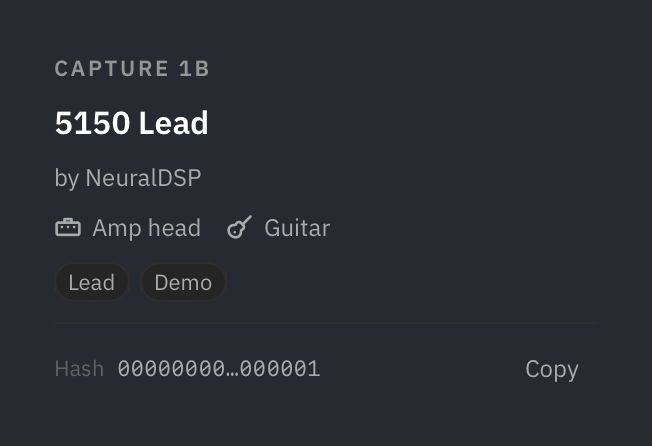
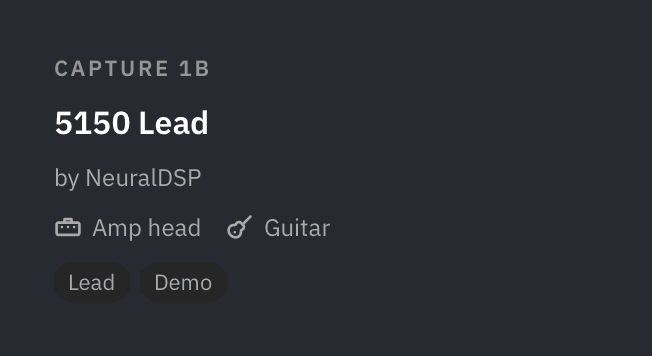
docs: Developer tools and Show Log File in the manual, templates and changelog
Manual: the Developer tools switch under Settings → Advanced, the Activity
section needs it, Troubleshooting asks for Help → Show Log File, Help menu and
status bar text updated. Bug report template asks for activity.log. CHANGELOG
Unreleased entry, DECISIONS #21, PLAN row 33 and session log, CONTRIBUTING and
CLAUDE.md notes. Screenshots retaken in normal mode (statusbar, hero,
settings-advanced, settings-device, shortcuts, capture-info); activity-log
with Developer tools on.

diff --git a/docs/MANUAL.md b/docs/MANUAL.md
@@ -117,16 +117,18 @@ pedal. The **Tempo** control at the top right belongs to the preset (see [Tempo]
 
 ### Status bar
 
-<img src="images/statusbar.png" alt="The status bar: link LED and state, firmware, last action, whether the preset matches the pedal, and Settings, Shortcuts, Record, Activity and Support" width="1000">
+<img src="images/statusbar.png" alt="The status bar: link LED and state, firmware, whether the preset matches the pedal, and Settings, Shortcuts and Support" width="1000">
 
-The link LED and state (green when connected), the pedal's firmware, the last thing sent, and whether the preset
-matches what's saved on the pedal. On the right: **Settings**, **Shortcuts**, **Record** (session recording),
-**Activity** (the protocol log, ⌘L) and **♥ Support**, which opens the project's Buy Me a Coffee page in your browser.
+The link LED and state (green when connected), the pedal's firmware, and whether the preset matches what's saved on
+the pedal. On the right: **Settings**, **Shortcuts** and **♥ Support**, which opens the project's Buy Me a Coffee page
+in your browser. With [Developer tools](#advanced) on, the bar also shows the last message sent ("Sent: …"),
+**Record** (session recording) and **Activity** (the protocol log, ⌘L).
 
 ### Help menu
 
-**Help** has **Nano Cortex Editor Manual** (this manual, on GitHub), **GitHub Repository**, **Report an Issue** and
-**Support the Project…**; they open in your browser. **Nano Cortex Editor → About Nano Cortex Editor** shows the
+**Help** has **Nano Cortex Editor Manual** (this manual, on GitHub), **GitHub Repository**, **Report an Issue**,
+**Show Log File** and **Support the Project…**. The links open in your browser; **Show Log File** shows the app's
+log file (`activity.log`) in Finder, to attach to a bug report. **Nano Cortex Editor → About Nano Cortex Editor** shows the
 version and the same links.
 
 ## 4. Presets
@@ -195,9 +197,10 @@ Each capture shows small icons for its device type (amp head, combo, pedal) and 
 author. Pick one, then choose the slot it should go into. **Whatever is in that slot is replaced**, and every preset
 that uses the slot plays the new capture.
 
-**Info…** (right-click the Capture card or a capture slot) shows the capture's details:
+**Info…** (right-click the Capture card or a capture slot) shows the capture's details (with
+[Developer tools](#advanced) on, also its hash, with Copy):
 
-<img src="images/capture-info.png" alt="Capture 1B details: 5150 Lead by NeuralDSP, amp head, guitar, tags Lead and Demo, and its hash with a Copy button" width="326">
+<img src="images/capture-info.png" alt="Capture 1B details: 5150 Lead by NeuralDSP, amp head, guitar, tags Lead and Demo" width="326">
 
 ### Cab / IR
 
@@ -344,20 +347,28 @@ disconnects and makes the next Connect scan for a pedal again.
 
 ### Device
 
-<img src="images/settings-device.png" alt="Settings, Device: the pedal's name, firmware, serial and hash, LED brightness 60 % and USB playback volume −6.0 dB" width="560">
+<img src="images/settings-device.png" alt="Settings, Device: the pedal's name, firmware and serial, LED brightness 60 % and USB playback volume −6.0 dB" width="560">
 
-Global settings of the pedal, read when you open the page: **About** (name, firmware build, serial and a hash, with
-Copy), **LED brightness** (in %) and **USB playback volume** (−20 to 0 dB, typeable) for audio from the computer over
-USB. They apply on the pedal right away, not per preset. **Raw settings** shows the other values the pedal reports,
-read-only; **Read again** re-reads them.
+Global settings of the pedal, read when you open the page: **About** (name, firmware build, serial), **LED
+brightness** (in %) and **USB playback volume** (−20 to 0 dB, typeable) for audio from the computer over USB. They
+apply on the pedal right away, not per preset. **Read again** re-reads them. With [Developer tools](#advanced) on,
+About also shows the pedal's hash, and **Raw settings** shows the other values the pedal reports, read-only.
 
 ### Advanced
 
-<img src="images/settings-advanced.png" alt="Settings, Advanced: show the Activity drawer at launch, and the Activity log file with Reveal in Finder" width="560">
+<img src="images/settings-advanced.png" alt="Settings, Advanced: the Developer tools switch, off" width="560">
 
-**Show the Activity drawer at launch**, and the **Activity log file**
-(`~/Library/Logs/Nano Cortex Editor/activity.log`) with **Reveal in Finder**. (The *Dev remote* row only appears in
-debug builds made from source.)
+**Developer tools** (off by default) shows the Activity log, session recording and protocol details, for
+troubleshooting and development: **Record** and **Activity** in the status bar, **⌘L** and **View → Activity Log**,
+the "Sent: …" text in the status bar, the pedal's hash and **Raw settings** on the Device page, and the hash in a
+capture's **Info…**. It takes effect right away; turning it off closes the Activity drawer and ends a recording in
+progress (the recording is saved to the default folder). With it on, this page also has **Show the Activity drawer
+at launch** and the **Activity log file** with **Reveal in Finder**. (The *Dev remote* row only appears in debug
+builds made from source.)
+
+The log file (`~/Library/Logs/Nano Cortex Editor/activity.log`) is written whether Developer tools are on or not, so
+a bug report can include it (**Help → Show Log File**). It is capped: past about 2 MB it moves to `activity.1.log`
+and a new one starts, so at most two files are kept.
 
 ### About
 
@@ -368,10 +379,14 @@ edition** (macOS and Windows) and **Buy me a coffee**. They open in your browser
 
 ## 13. Session recording and the Activity log
 
+Both need **Developer tools** (Settings → [Advanced](#advanced)).
+
 **Activity** in the status bar (or **⌘L**, or **View → Activity Log**) opens the protocol log under the editor: every
 message sent (TX) and received (RX), with times. The same lines go to the log file above, so you can `tail -f` it.
 
 <img src="images/activity-log.png" alt="The Activity drawer listing sent messages such as Pre FX 1 param refresh, Library content request and Tuner on, with timestamps" width="1000">
+
+*The Activity drawer, with Developer tools on.*
 
 **Record** in the status bar captures every Bluetooth packet in both directions, with timestamps and the log lines.
 The button reads *Recording N* in red while it runs; click it again to save the JSON file (by default in
@@ -393,7 +408,8 @@ Press **?** (when no text field has focus) or **View → Keyboard Shortcuts** fo
 | ⇧⌘R | Re-read everything from the pedal |
 | ⌘K | Connect or disconnect |
 | ⌘1 / ⌘2 | Editor / Cortex Cloud |
-| ⌘L | Show Bluetooth activity |
+| ⌘L | Show Bluetooth activity (Developer tools) |
+| Record | In the status bar: record every packet, then save it as JSON (Developer tools) |
 | ⌘T | Tuner (Esc closes it) |
 | ⌘M | Metronome (Space starts and stops it) |
 | ? | This list (Esc closes any sheet or overlay) |
@@ -436,8 +452,9 @@ the pedal first.
 **The metronome is silent or on the wrong device.** Check the volume in the overlay and **Output** (Settings →
 Metronome).
 
-**Something else looks wrong.** Open **Activity** (⌘L) to see what was sent and received. For a bug report, a
-**Record**ing of the problem helps (check it for anything you don't want to share).
+**Something else looks wrong.** Choose **Help → Show Log File** and attach `activity.log` to your bug report (it
+lists what the app sent and received; check it for anything you don't want to share). To watch the log live, turn on
+**Developer tools** (Settings → Advanced) and open **Activity** (⌘L); a **Record**ing of the problem helps too.
 
 ## 17. FAQ
 

diff --git a/PLAN.md b/PLAN.md
@@ -65,6 +65,7 @@ IBM Plex Sans, purple #6954FF for actions, Quad Cortex category colours for bloc
 | 30 | [x] Footswitch assignment (Anup, 2026-10-09; supersedes row 17): Footswitches strip under the preset list (IA IB / IIA IIB, preset number and name, current one highlighted; click loads, right-click "Assign current preset" / "Assign…" popover), "Assign to footswitch IA…IIB" on preset rows; with unsaved edits an assignment asks "Save changes to X?" first (the pedal drops them, trace ~649 s); `Writes.assignFootswitch` (type 29, field 4 = −1), preset change field 9 now names the slot holding the preset (was always 4); device-side presses update the slots; fake pedal keeps four slots; `/footswitch?slot=&i=`, `/state` → `footswitch`. PROTOCOL-NOTES §10. Electron: in parallel | Opus | Fixture bytes (three assignments and field 9, `FootswitchTests`); demo screenshot of the strip after `/footswitch?slot=iib&i=5`; ⚠ one assignment on the pedal, then press the switch |
 | 31 | [x] Expression pedal assignments (types 60–63, PROTOCOL-NOTES §12): NanoCore `ExpressionAssignments` (11 sweep + 8 on/off targets, encode/parse), `Writes.expressionRead/Save`, `Session.readExpression/saveExpression`, fake pedal keeps a set per preset; store reads on connect and every preset load, one 62 per edit (latest wins while dragging), edited + toast on clear; EXP pill before IN opens the panel in the inspector (target menu, heel/toe knobs in the parameter's units, switch mode/delay/latch/invert, Remove, Add, Clear all); dev remote `/expression`. Electron in parallel | Fable | Five trace bodies byte for byte + round trip (38 core tests); demo screenshots of filled and empty panel; ⚠ on the pedal: assign, Save, power-cycle, re-read |
 | 32 | [x] Share-ready 1.0.0 (2026-10-09): new repo `AJs-Creations/nano-cortex-editor-mac` without recordings (tests inline scrubbed frames, DECISIONS #19), MIT LICENSE + THIRD_PARTY_NOTICES, version 1.0.0, user README, `docs/MANUAL.md` with demo screenshots, CHANGELOG, CONTRIBUTING, issue/PR templates, release notes from CHANGELOG | Opus | Core + app unit tests green, Debug build, CI on the PR; ⚠ Anup tags v1.0.0 |
+| 33 | [x] Developer tools switch (Anup, 2026-10-10): Settings → Advanced "Developer tools", off by default (`ui.devTools`); hides Record, Activity, ⌘L / View → Activity Log, the "Sent: …" status text, the device hash and Raw settings, the capture Info hash, and the ⌘L/Record shortcut rows; turning it off closes the drawer and saves a running recording. Log file always written, rotated at ~2 MB to `activity.1.log` (`RotatingLogFile`, one open handle); Help → Show Log File. DECISIONS #21. Electron in parallel | Opus | `LogFileTests` (rotation, relaunch with a big file, recreate, default off); UI smoke: no Record/Activity by default, both with `-ui.devTools YES`; dev remote `/settings?devtools=` toggles live (menus, rows, drawer, recording); docs screenshots retaken |
 | 11 | [~] Design polish pass to Electron parity (Anup, 2026-10-08: "looks ok but nowhere near as good as the Electron version"): compare screen by screen against the Electron app, close the gaps in spacing, type, knob rendering, node cards, sidebar, drawer, sheets and animations. 2026-10-08: exact pass against `pro/ui.css` + the two-row top bar from `src/toolbar.html` done (PR feature/visual-parity); waiting on Anup's side-by-side review | Opus | Side-by-side screenshots reviewed by Anup |
 | 10 | [>] Nano presets from Cortex Cloud — DEFERRED: needs a phone-app trace of a preset download (same as the Electron repo's queue) | Fable | — |
 
@@ -73,6 +74,20 @@ Every row 1–9 `[x]`; the app passes the Electron UX-test checklist by hand on 
 needs only the pedal's EXIT+CAPTURE press.
 
 ## Session log (newest first)
+
+### 2026-10-10 — Developer tools switch (row 33)
+**Step:** 33 · **Model:** Opus
+**Did:** `AppSettings.devTools` (`DevTools.swift`, key `ui.devTools`, default off) gates Record, Activity, ⌘L and View →
+Activity Log, the "Sent: …" status text (upload progress still shows), Settings → Advanced's drawer/log-file rows, the
+Device page's hash and Raw settings, the capture Info hash and the shortcut rows (`ShortcutsSheet.rows(devTools:)`).
+Turning it off closes the drawer and saves a running recording to the default folder. `RotatingLogFile` keeps one
+handle open and rotates at 2 MB; Help → Show Log File (creates it if missing). Dev remote `/settings?devtools=0|1`,
+and the dump now lists the View menu and the shortcut rows. Smoke test pins `-ui.devTools NO` and adds a launch with
+`YES`. Screenshots retaken in normal mode (activity-log with dev tools on).
+**Found:** SwiftUI fills `CommandMenu` items lazily: an item hidden by state stays in the NSMenu until the menu is
+about to open, so the dev remote calls `menuNeedsUpdate` before dumping; the ⌘L menu action also checks the setting.
+**Decisions:** #21.
+**Next:** Anup reviews PR #1.
 
 ### 2026-10-09 — Share-ready 1.0.0 (row 32)
 **Step:** 32 · **Model:** Opus

diff --git a/CLAUDE.md b/CLAUDE.md
@@ -41,7 +41,11 @@ Every feature Anup asks for lands in both this app and the Electron one (`../nan
 
 ## Hardware sessions
 Debug builds expose a dev remote on `http://127.0.0.1:4849` (Release builds don't). Every build appends the Activity
-log to `~/Library/Logs/Nano Cortex Editor/activity.log` (`tail -f` it). Endpoints:
+log to `~/Library/Logs/Nano Cortex Editor/activity.log` (`tail -f` it), whatever the Developer tools switch says; it
+rotates to `activity.1.log` past ~2 MB (`RotatingLogFile`, DECISIONS #21). Record, Activity, ⌘L, hashes, raw device
+fields and the "Sent: …" status text only show with Settings → Advanced → **Developer tools** on (`ui.devTools`, off by
+default; `-ui.devTools YES` turns it on for one launch without writing it). The dev remote works either way (`/drawer`
+and `/record` too). Endpoints:
 - Link: `/connect`, `/disconnect`, `/demo`, `/state` (parsed state dump + metadata), `/ui` (store view: blocks, cab, tab, sheets), `/log?since=N`, `/reread`, `/save`
 - Edits: `/preset?i=` (0-based; with edits it opens the prompt, answer with `/switch?choice=save|discard|cancel`), `/amp?knob=&v=`, `/fxmodel?slot=&name=`, `/fxon?slot=&on=`, `/fxparam?slot=&i=&v=`, `/capture?slot=`, `/cab?slot=`, `/cabmic?mic=&pos=`, `/cabrefresh`, `/gate?on=&r=`, `/rename?name=`, `/tuner?on=`, `/footswitch?slot=ia|ib|iia|iib&i=` (assign; with unsaved edits it opens the save prompt: add `confirm=save|discard|cancel` or answer with `/switch?choice=`; `open=1` opens the Assign… popover)
 - Library: `/library` (names plus `kinds`: `type|instrument` per capture; `open=capture|cab` opens the picker), `/pick?kind=capture|cab&factory=1|0&index=&slot=&name=`, `/chooser?...` (opens the slot sheet), `/scan` (slot usage, switches through every preset)
@@ -53,7 +57,7 @@ log to `~/Library/Logs/Nano Cortex Editor/activity.log` (`tail -f` it). Endpoint
 - Keys: `/key?k=esc|return|space|tab` or `/key?chars=text` (`&target=settings`) dispatches keys in-process like NSApplication (key equivalents first, then the first responder); works while the window is not key
 - Other: `/drawer?on=`, `/stage?s=`, `/shot?file=` (window PNG; `&full=1` includes the title bar and traffic lights, `&target=cloud` the web view, `&target=popover` an open popover), `/resize?w=&h=`, `/hit?x=&y=` (which view takes a click at that window point)
 - Links: `/support` reports the URL the status bar's ♥ Support button opens (without opening a browser), the other outbound links (`Links.swift`), the Help menu's items and the About panel's credits; `/linkproblem?text=&error=` puts a connect problem / failed-connect line on the connect card (empty clears)
-- Settings: `/settings` dumps them (plus the app menu's items and the window list); set with `accent=purple|teal|green|orange|yellow|red|blue`, `dock=0|1`, `sound=click|woodblock|tick|beep|cowbell`, `volume=`, `bpm=`/`beats=` (defaults), `connect=0|1`, `showlog=0|1`, `opensin=simple|advanced`, `section=appearance|metronome|connection|device|advanced|about`, `open=1` (opens the window), `preview=1`, `forget=1` (clears the remembered pedal: shared UserDefaults, so restore `pedal.identifier` afterwards), `icon=/path.png` (writes the 1024 px recoloured icon), `sounds=1` (synth buffer stats); `/shot?target=settings&full=1&file=` screenshots the Settings window
+- Settings: `/settings` dumps them (plus the app menu's items, the View menu's items, the shortcut sheet's rows, `devTools`/`showLog`/`recording`, and the window list); set with `accent=purple|teal|green|orange|yellow|red|blue`, `dock=0|1`, `sound=click|woodblock|tick|beep|cowbell`, `volume=`, `bpm=`/`beats=` (defaults), `connect=0|1`, `showlog=0|1`, `devtools=0|1` (shared `ui.devTools`: delete the key afterwards if it was absent), `opensin=simple|advanced`, `section=appearance|metronome|connection|device|advanced|about`, `open=1` (opens the window), `preview=1`, `forget=1` (clears the remembered pedal: shared UserDefaults, so restore `pedal.identifier` afterwards), `icon=/path.png` (writes the 1024 px recoloured icon), `sounds=1` (synth buffer stats); `/shot?target=settings&full=1&file=` screenshots the Settings window
 Launch arguments: `-demo` connects to the fake pedal on launch, `-no-dev-remote` skips the listener (the UI tests use both).
 A second instance next to Anup's (never kill his): `open -n --env NANO_DEV_PORT=4850 "build/Build/Products/Debug/Nano Cortex Editor.app" --args -demo`, then `/demo`. Wait until the previous demo instance has exited before relaunching (the port stays bound otherwise), and size the window with `/resize?w=&h=` rather than `-window WxH`: with `-window` the dev remote sometimes never comes up (seen 2026-10-09).
 Without `-demo`, the app connects at launch to the remembered pedal when Settings → Connection allows it (default on).

diff --git a/README.md b/README.md
@@ -19,7 +19,7 @@ with a proper metronome. Unofficial and free (MIT).
 - **Signal chain editing**: gate, two pre effects, capture, cab/IR and three post effects. Turn blocks on and off,
   pick effects, and turn every knob live on the pedal.
 - **Captures and IRs**: load from the pedal's library (factory and your own) into any slot, with device-type and
-  instrument icons; **Info…** shows a capture's author, tags and hash; a usage scan shows which presets use each slot.
+  instrument icons; **Info…** shows a capture's author and tags; a usage scan shows which presets use each slot.
 - **Save, Save as, Rename, Delete, Discard**: edits are live; **Save** (⌘S) commits them. Save as copies the
   current sound into another slot; Discard reloads the preset as saved.
 - **Footswitch assignment** for the four 4-Preset-mode footswitch slots (IA, IB, IIA, IIB).
@@ -32,7 +32,8 @@ with a proper metronome. Unofficial and free (MIT).
   **Device** page for the pedal's LED brightness and USB playback volume.
 - **Cortex Cloud** tab: the Cortex Cloud website with your own login; on a capture's page, **Send to Nano Cortex**
   puts it on the pedal.
-- **Session recording** of the Bluetooth traffic, and an **Activity** log.
+- **Developer tools** (Settings → Advanced, off by default): session recording of the Bluetooth traffic and the
+  **Activity** log. The log file is always written (capped at about 2 MB) for bug reports: **Help → Show Log File**.
 - **Keyboard shortcuts** for everything common (press `?` in the app).
 - **Menu bar extra**: current preset with previous/next, tuner and metronome without the window.
 - **Demo mode**: try every feature without a pedal.

diff --git a/DECISIONS.md b/DECISIONS.md
@@ -23,6 +23,7 @@
 
 | 19 | No recordings in the public repo, not even scrubbed: tests inline only the frames they assert (`RecordedFrames.swift`, identifying strings replaced at the same length, capture data synthetic); new recordings go to the git-ignored `recordings/` | Anup, 2026-10-09, before sharing: recordings carry the pedal serial, device ids, users' preset names and third-party Cloud content, and history is forever. Inlined frames keep the golden tests byte for byte |
 | 20 | Bundle id stays `com.community.nanocortex` for 1.0 | Changing it would reset existing users' settings, remembered pedal and Cloud login; revisit only if the app is ever notarised under a developer id |
+| 21 | Developer tools (Record, Activity, ⌘L, the "Sent: …" status text, hashes, raw device fields) are off by default behind Settings → Advanced, for fresh installs and existing users alike; the dev remote stays build-gated (DEBUG), not switchable. The log file is always written, for everyone, capped at ~2 MB with one rotated `activity.1.log`; Help → Show Log File reveals it | Anup, 2026-10-10: normal users shouldn't meet protocol internals, but a bug report still needs the log, so it is written regardless and bounded so it can't grow forever. Same in the Electron edition |
 ## Deferred ideas
 - SwiftProtobuf with hand-written `.proto` files, if the message set grows large.
 

diff --git a/CONTRIBUTING.md b/CONTRIBUTING.md
@@ -25,6 +25,10 @@ test on every pull request and on pushes to `main` and `staging`.
 - `NanoCore` stays headless: no UI, no CoreBluetooth. New protocol behaviour gets a test there.
 - Edit `project.yml`, not the Xcode project.
 - Keep demo mode working: it is what the UI test, the screenshots and new contributors run on.
+- Protocol-level UI (Record, Activity, ⌘L, hashes, raw fields, "Sent: …") sits behind **Settings → Advanced →
+  Developer tools** (`AppSettings.devTools`, UserDefaults `ui.devTools`, off by default). Turn it on to work on the
+  protocol; launch with `-ui.devTools YES` to enable it for one run without changing your setting. Docs screenshots
+  are taken with it off unless they show a developer feature.
 
 ## The dev remote
 Debug builds start a localhost-only HTTP server (default port 4849, `NANO_DEV_PORT` to change it) that can drive and

diff --git a/CHANGELOG.md b/CHANGELOG.md
@@ -3,6 +3,17 @@
 All notable changes to Nano Cortex Editor for Mac. Versions follow [Semantic Versioning](https://semver.org).
 The release workflow copies the section of a version into its GitHub Release notes.
 
+## [Unreleased]
+
+### Changed
+- **Developer tools** switch in Settings → Advanced, off by default: Record, Activity (⌘L, View → Activity Log), the
+  "Sent: …" status text, the Device page's hash and raw settings and a capture's hash only show with it on.
+- The log file (`~/Library/Logs/Nano Cortex Editor/activity.log`) is still written for everyone, now capped: past
+  about 2 MB it moves to `activity.1.log` (one old file kept).
+
+### Added
+- **Help → Show Log File** reveals the log file in Finder, for bug reports.
+
 ## [1.0.0] - 2026-10-09
 
 First public release of the native macOS edition.

diff --git a/.github/ISSUE_TEMPLATE/bug_report.md b/.github/ISSUE_TEMPLATE/bug_report.md
@@ -20,8 +20,10 @@ labels: bug
 - Pedal firmware (status bar):
 - Demo mode or a real pedal:
 
-**Activity log**
-The relevant lines from Activity (⌘L), or a session recording (Record in the status bar). Recordings contain your
-pedal's serial and your preset names: remove anything you don't want to share.
+**Log file**
+Attach the log file: **Help → Show Log File** shows `activity.log` in Finder (drag it into this issue). Optional, with
+Settings → Advanced → Developer tools on: the relevant lines from Activity (⌘L), or a session recording (Record in
+the status bar). Logs and recordings can contain your pedal's serial and your preset names: remove anything you don't
+want to share.
 
 **Screenshots** (optional; please don't post screenshots of other people's Cortex Cloud content)
